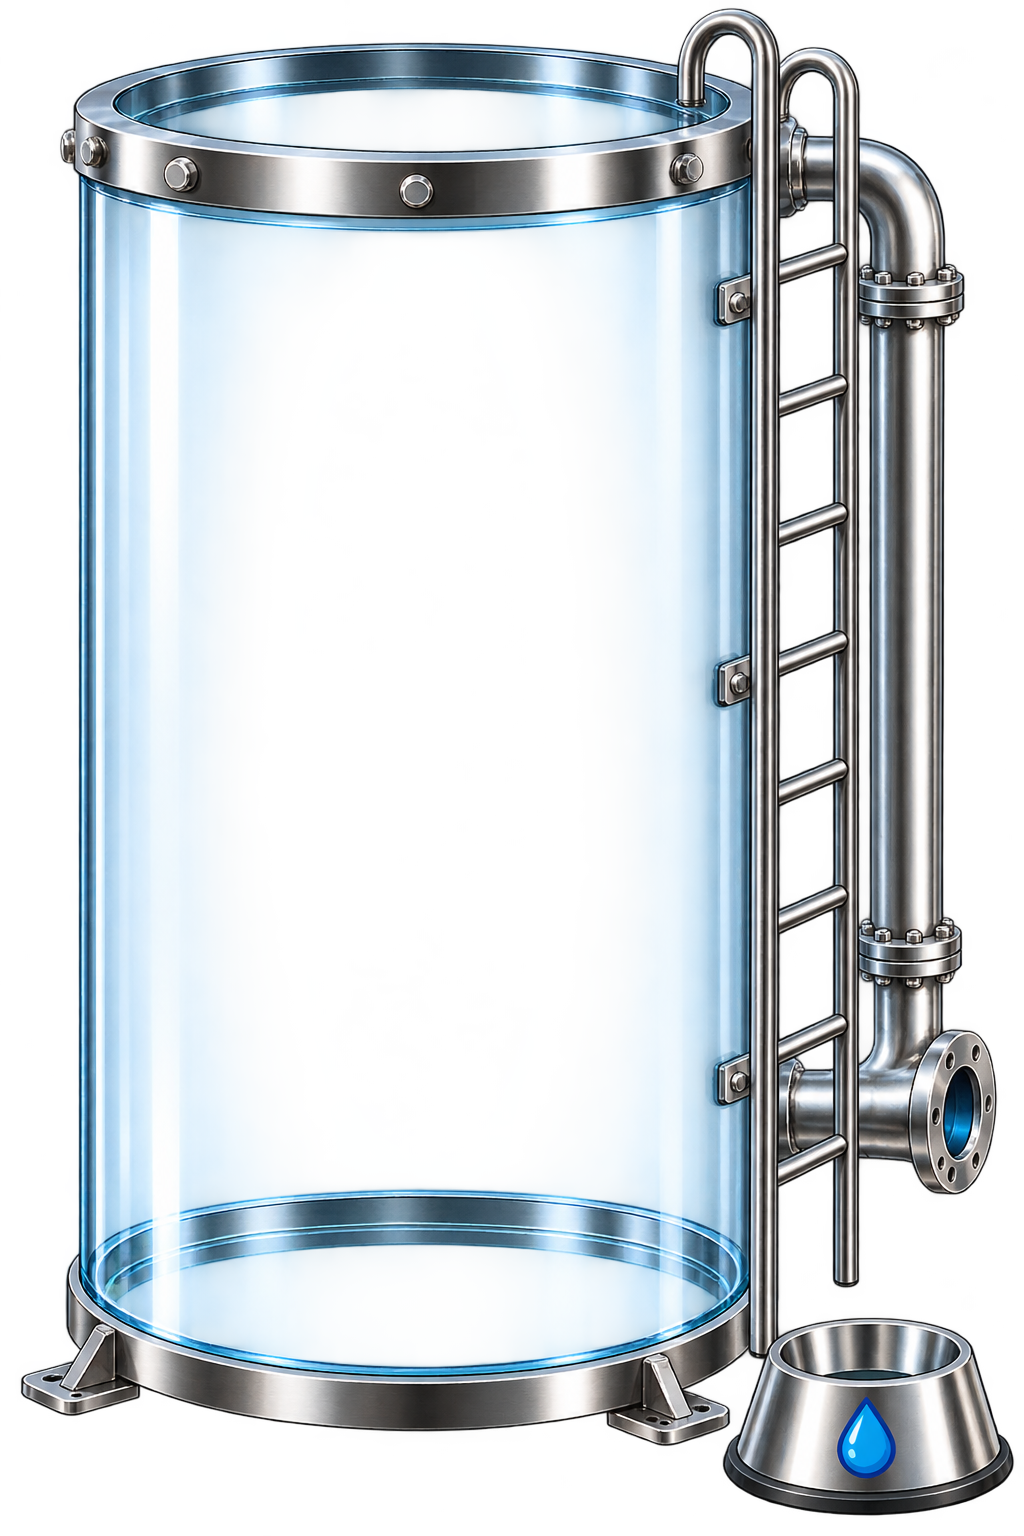
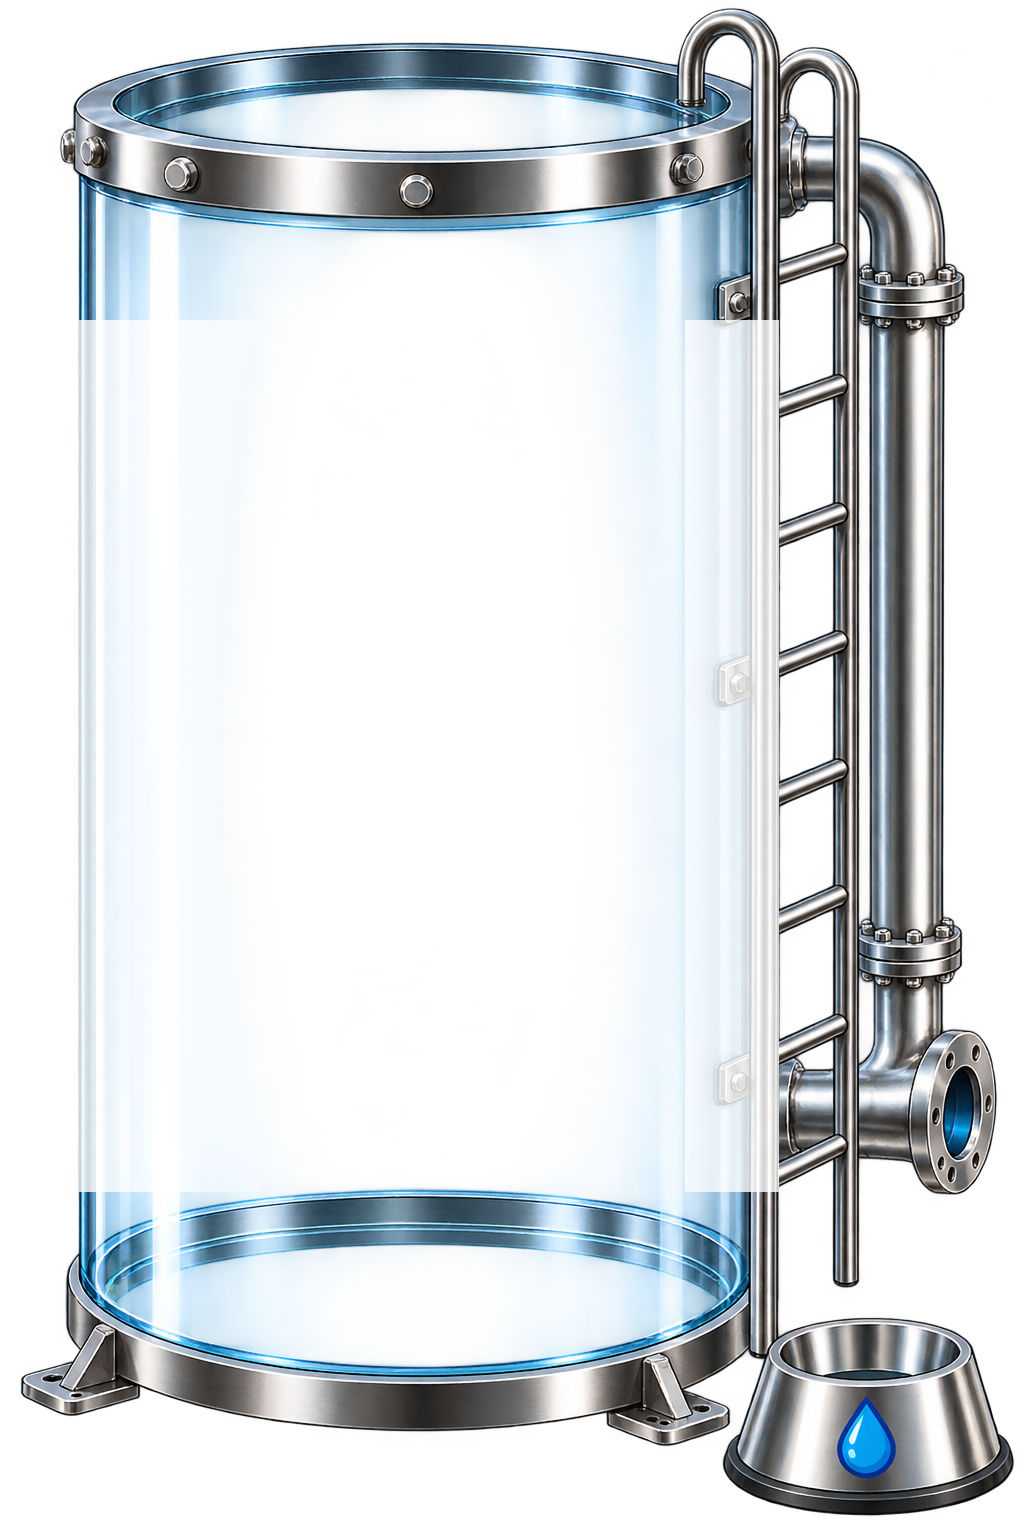
Fix water fill by making PNG glass walls semi-transparent (alpha=50)
Root cause: glass walls in PNG had alpha=247 (near-opaque), blocking canvas
water from showing through. Canvas-behind approach requires transparency.

Fix: cap glass wall pixels (left x=78-260, right x=685-778, y=320-1192)
to alpha=50. Canvas water now shows at ~80% through the walls while the
glass highlight is still subtly visible (20%). Canvas stays behind PNG
(z-index:0) with full-cylinder clip (L=0.078, R=0.774).

Changed region(s): [[0.6562, 0.1875, 0.7812, 0.7812], [0.0625, 0.1875, 0.1875, 0.7812]]

diff --git a/index.html b/index.html
@@ -93,7 +93,7 @@ h2 i{font-style:normal;color:var(--a)}
 .dv-caption{font-size:.78rem;color:var(--mid);line-height:1.6;font-style:italic;margin-top:1rem}
 .tank-wrap{position:relative;max-width:300px;margin:.75rem auto 0;display:block}
 .tank-bg{width:100%;display:block;position:relative;z-index:1}
-.tank-canvas{position:absolute;top:0;left:0;width:100%;height:100%;pointer-events:none;z-index:2}
+.tank-canvas{position:absolute;top:0;left:0;width:100%;height:100%;pointer-events:none;z-index:0}
 .tank-label{position:absolute;z-index:2;left:47.5%;top:50%;transform:translate(-50%,-50%);text-align:center;pointer-events:none;background:rgba(13,13,12,0.60);border:1px solid rgba(255,255,255,0.18);border-radius:6px;padding:.55rem .9rem;white-space:nowrap}
 .tank-label-title{display:block;font-size:.5rem;font-weight:700;letter-spacing:.22em;text-transform:uppercase;color:rgba(255,255,255,0.6)}
 .tank-label-pct{display:block;font-size:1.5rem;font-weight:900;color:#fff;line-height:1;margin-top:.12rem;font-variant-numeric:tabular-nums}
